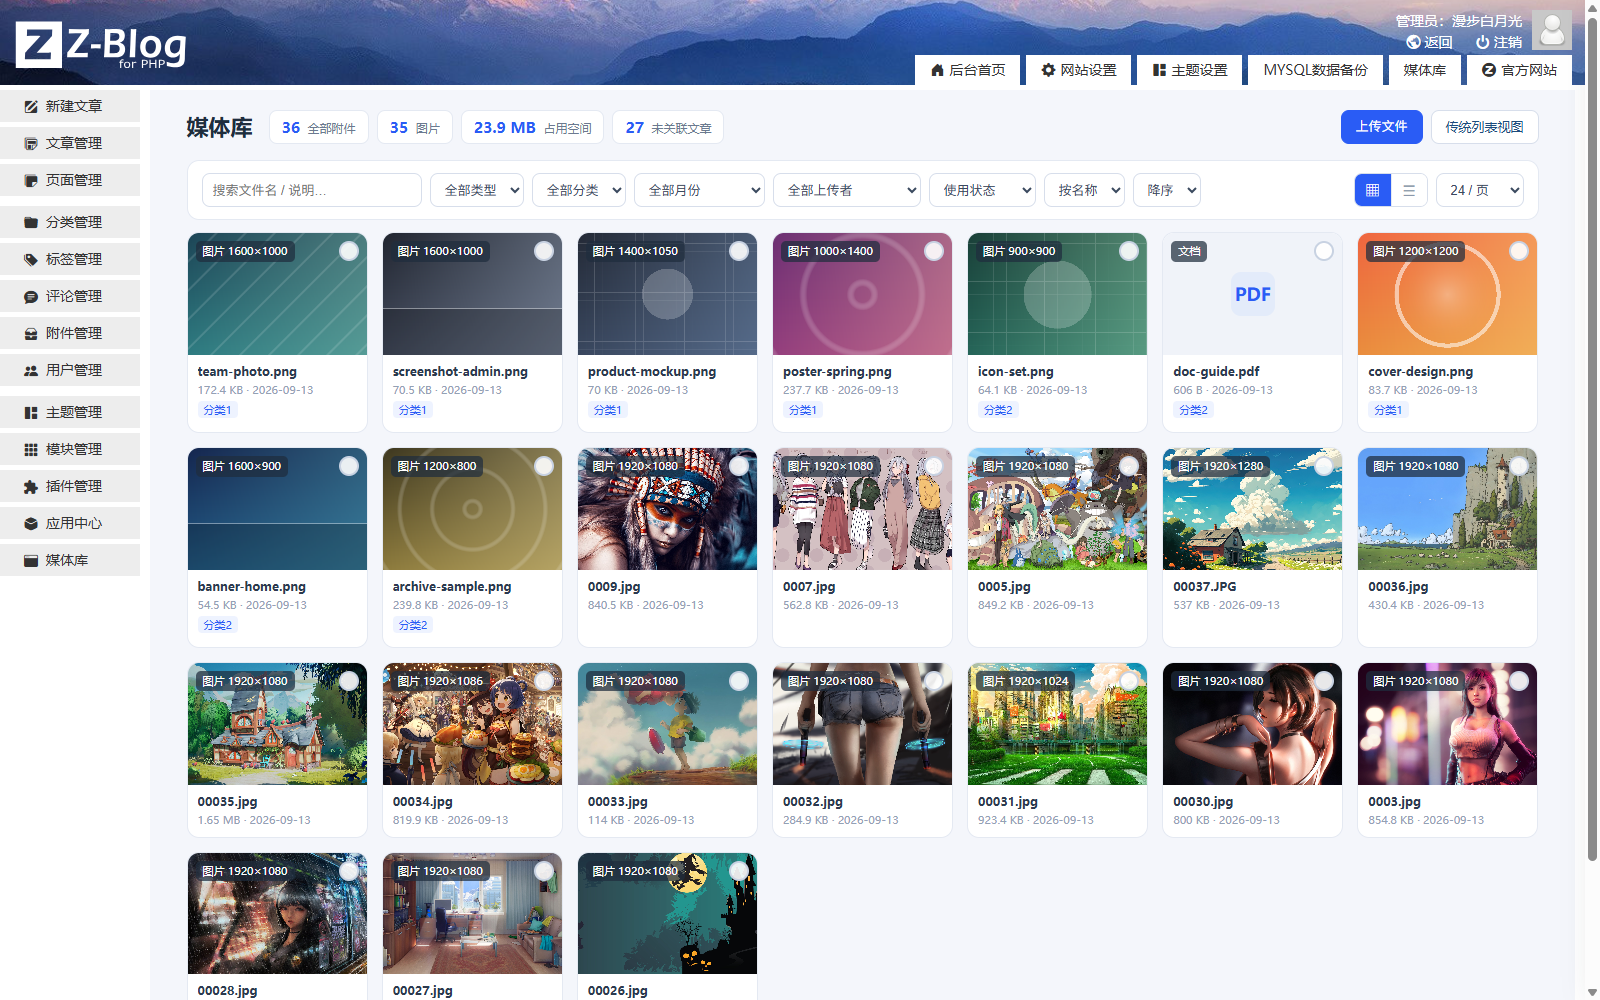
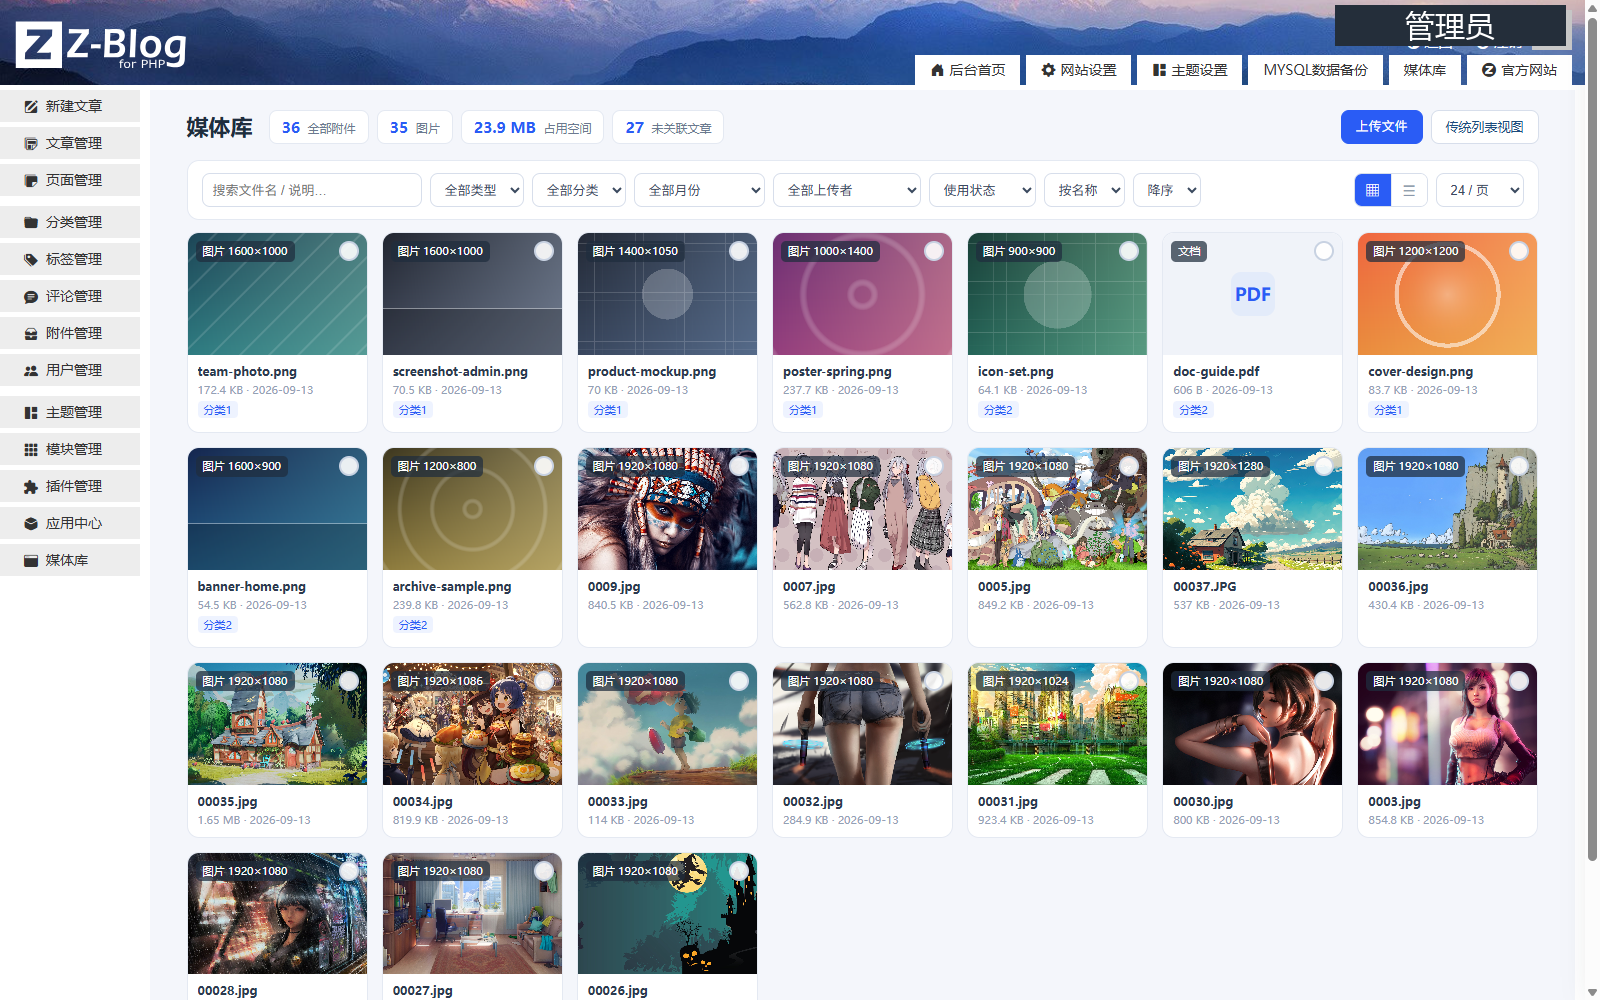
chore(合规): plugin.xml <source> 补 <email> 与 <author> 一致；zbignore 取消排除 README.md 使其进入 zba 包；同步版本号 (v1.6.5)

Changed region(s): [[0.8125, 0.0, 1.0, 0.062]]

diff --git a/function.php b/function.php
@@ -8,7 +8,7 @@ if (!defined('ZBP_PATH')) {
 }
 
 if (!defined('AT8_MEDIA_LIBRARY_VERSION')) {
-    define('AT8_MEDIA_LIBRARY_VERSION', '1.6.4');
+    define('AT8_MEDIA_LIBRARY_VERSION', '1.6.5');
 }
 
 /**

diff --git a/RELEASE_CHECKLIST.md b/RELEASE_CHECKLIST.md
@@ -1,8 +1,8 @@
-# at8_media_library 1.6.4 — 发布检查清单（RELEASE_CHECKLIST）
+# at8_media_library 1.6.5 — 发布检查清单（RELEASE_CHECKLIST）
 
 检查基准：《Z-BlogPHP 插件 AI Agent 开发规范》§29
 实测环境：Z-BlogPHP **1.7.5** / PHP 7.3.4（本地 `php -l`）+ PHP 8.2（测试站 zblog.xmm.fan）/ MySQL
-检查日期：2026-09-23
+检查日期：2026-09-24
 
 ## 1. 元数据与标识
 
@@ -10,7 +10,7 @@
 |---|---|---|
 | 插件 ID | `at8_media_library` | ✅ 由 `media_library` 改名后长期稳定（旧配置自动迁移） |
 | 插件名称 | 媒体库 · 相册式附件管理 | ✅ |
-| 版本号 | 1.6.4（`plugin.xml` 与 `AT8_MEDIA_LIBRARY_VERSION` 一致） | ✅ 十进制封十进一 |
+| 版本号 | 1.6.5（`plugin.xml` 与 `AT8_MEDIA_LIBRARY_VERSION` 一致） | ✅ 十进制封十进一 |
 | 前缀 | 函数 `at8_media_library_*`、PHP 常量 `AT8_MEDIA_LIBRARY_*`、CSS `.mlx-*` / `.ml-*`、JS `window.AT8ML`、配置键 `conf_Name=at8_media_library` | ✅ 本次将 `window.ML` 改名 `window.AT8ML` 以避免命名冲突 |
 | `plugin.xml` 必填节点 | 含 `<description>`、`<phpver>`；author/source 完整 | ✅ |
 | 作者与官网 | 漫步白月光 / https://www.at8.fun/ | ✅ |

diff --git a/README.md b/README.md
@@ -88,6 +88,14 @@ function myapp_Thumb(&$url, $upload) {
 
 ## 更新日志
 
+### 1.6.5（2026-09-24）
+
+规范符合性微调（无功能变更）：
+
+- **元数据补齐**：`plugin.xml` 的 `<source>` 节点补 `<email>361611074@qq.com</email>`（与 `<author>` 一致，便于应用中心审核员核对作者信息）；`<modified>` 同步至 2026-09-24；
+- `zbignore.txt` 调整：`README.md` 不再排除（上架审核对使用说明有要求，README 进 zba 包便于审核员查阅）；`CHANGELOG.md` / `RELEASE_CHECKLIST.md` / `screenshots` / `cache` / `.git` 仍按原状排除；
+- 同步更新 `function.php` 版本常量、`plugin.xml` 元数据、`CHANGELOG.md` 与发布检查清单。
+
 ### 1.6.4（2026-09-23）
 
 - **最低 PHP 版本提高至 7.4**（`plugin.xml` 的 `<phpver>`，应用中心安装门槛）。依据：全量文件在 PHP 7.3.4 通过 `php -l`（严于 7.4）、运行时在 PHP 8.2 实测零报错、源码未使用任何 PHP 8.0+ 专有语法（已扫描确认无 `?->` / `match` 表达式 / `str_contains` / `#[Attribute]` / 构造器提升 / 联合类型 / `enum` / `readonly`）；

diff --git a/CHANGELOG.md b/CHANGELOG.md
@@ -2,6 +2,16 @@
 
 版本号规则：十进制封十进一（每段 0~9，满 10 进位），不用 1.2.10 这类写法。
 
+## 1.6.5（2026-09-24）
+
+规范符合性微调（无功能变更）：
+
+- **`plugin.xml` 元数据补齐**：
+  - `<source>` 节点补 `<email>361611074@qq.com</email>`（与 `<author>` 一致，便于应用中心审核员核对作者信息）。
+  - `<modified>` 日期同步至 2026-09-24。
+- `zbignore.txt` 调整：`README.md` 不再排除（上架审核对使用说明有要求，README 进 zba 包便于审核员查阅）；`CHANGELOG.md` / `RELEASE_CHECKLIST.md` / `screenshots` / `cache` / `.git` 仍按原状排除。
+- 同步更新 `function.php` 版本常量、`plugin.xml`、本日志、`RELEASE_CHECKLIST.md`。
+
 ## 1.6.4（2026-09-23）
 
 - **最低 PHP 版本提高至 7.4**（`plugin.xml` 的 `<phpver>`，应用中心据此拒绝安装）。
